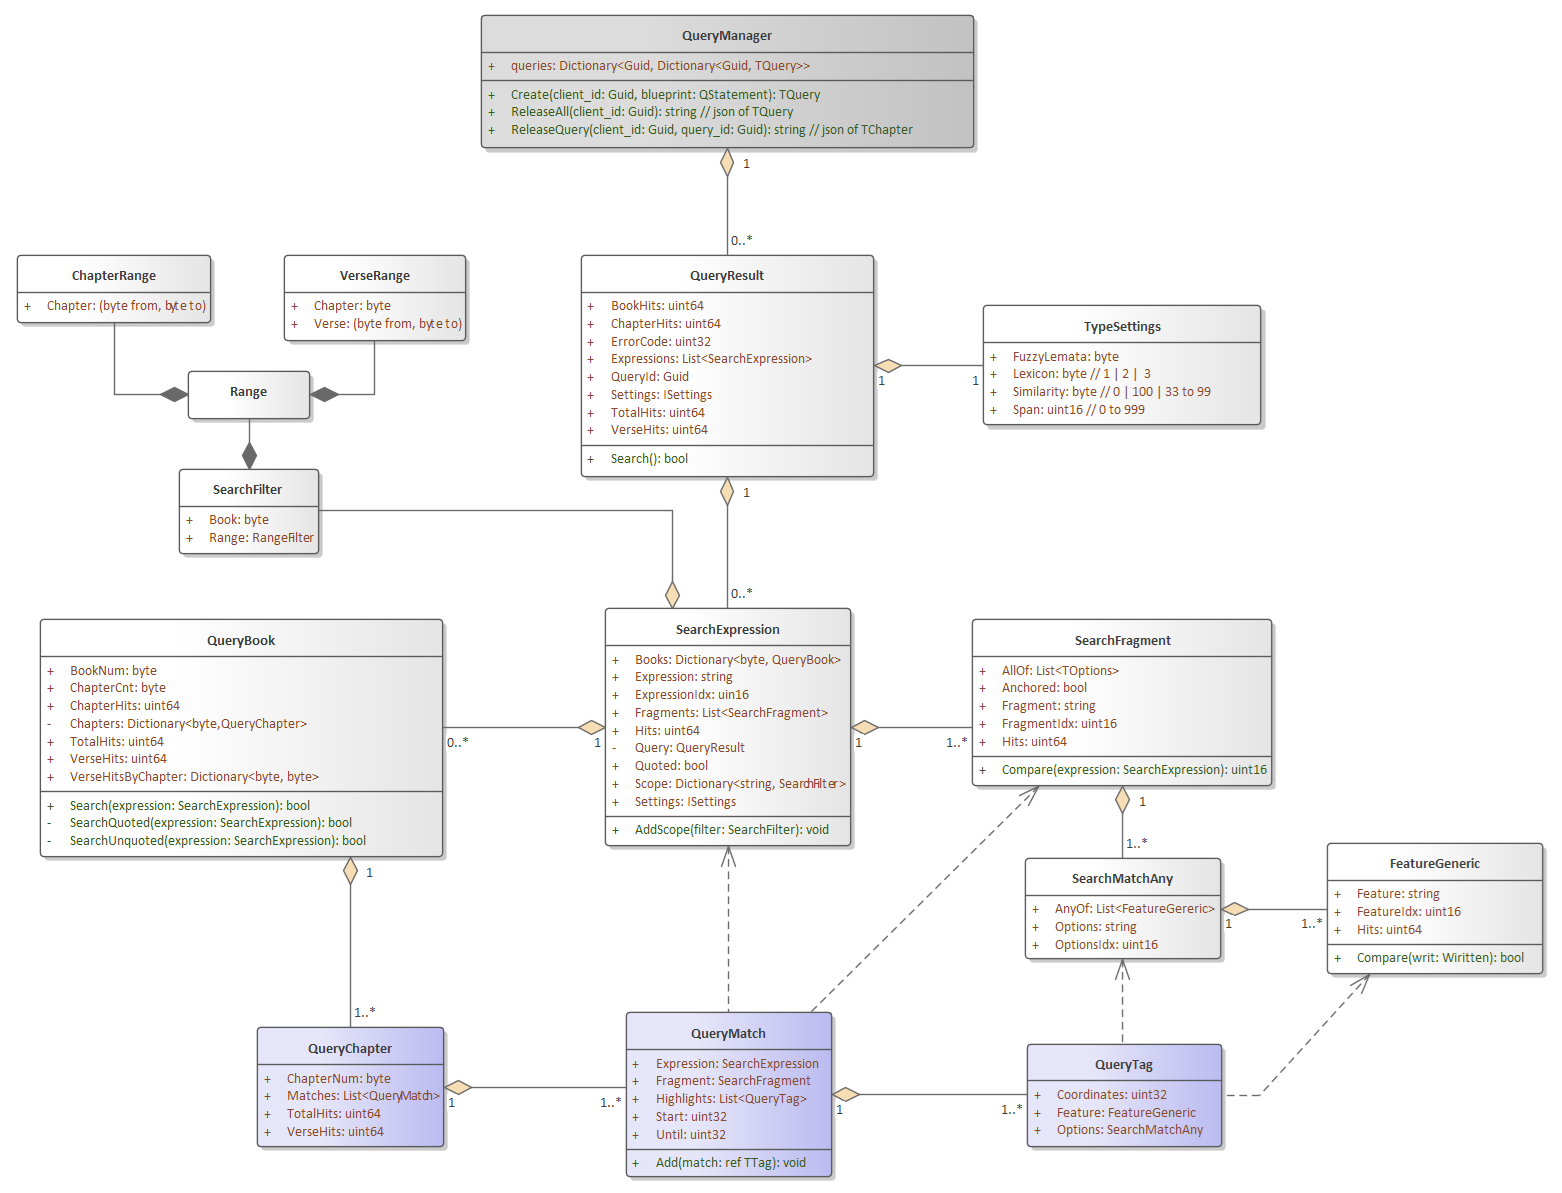
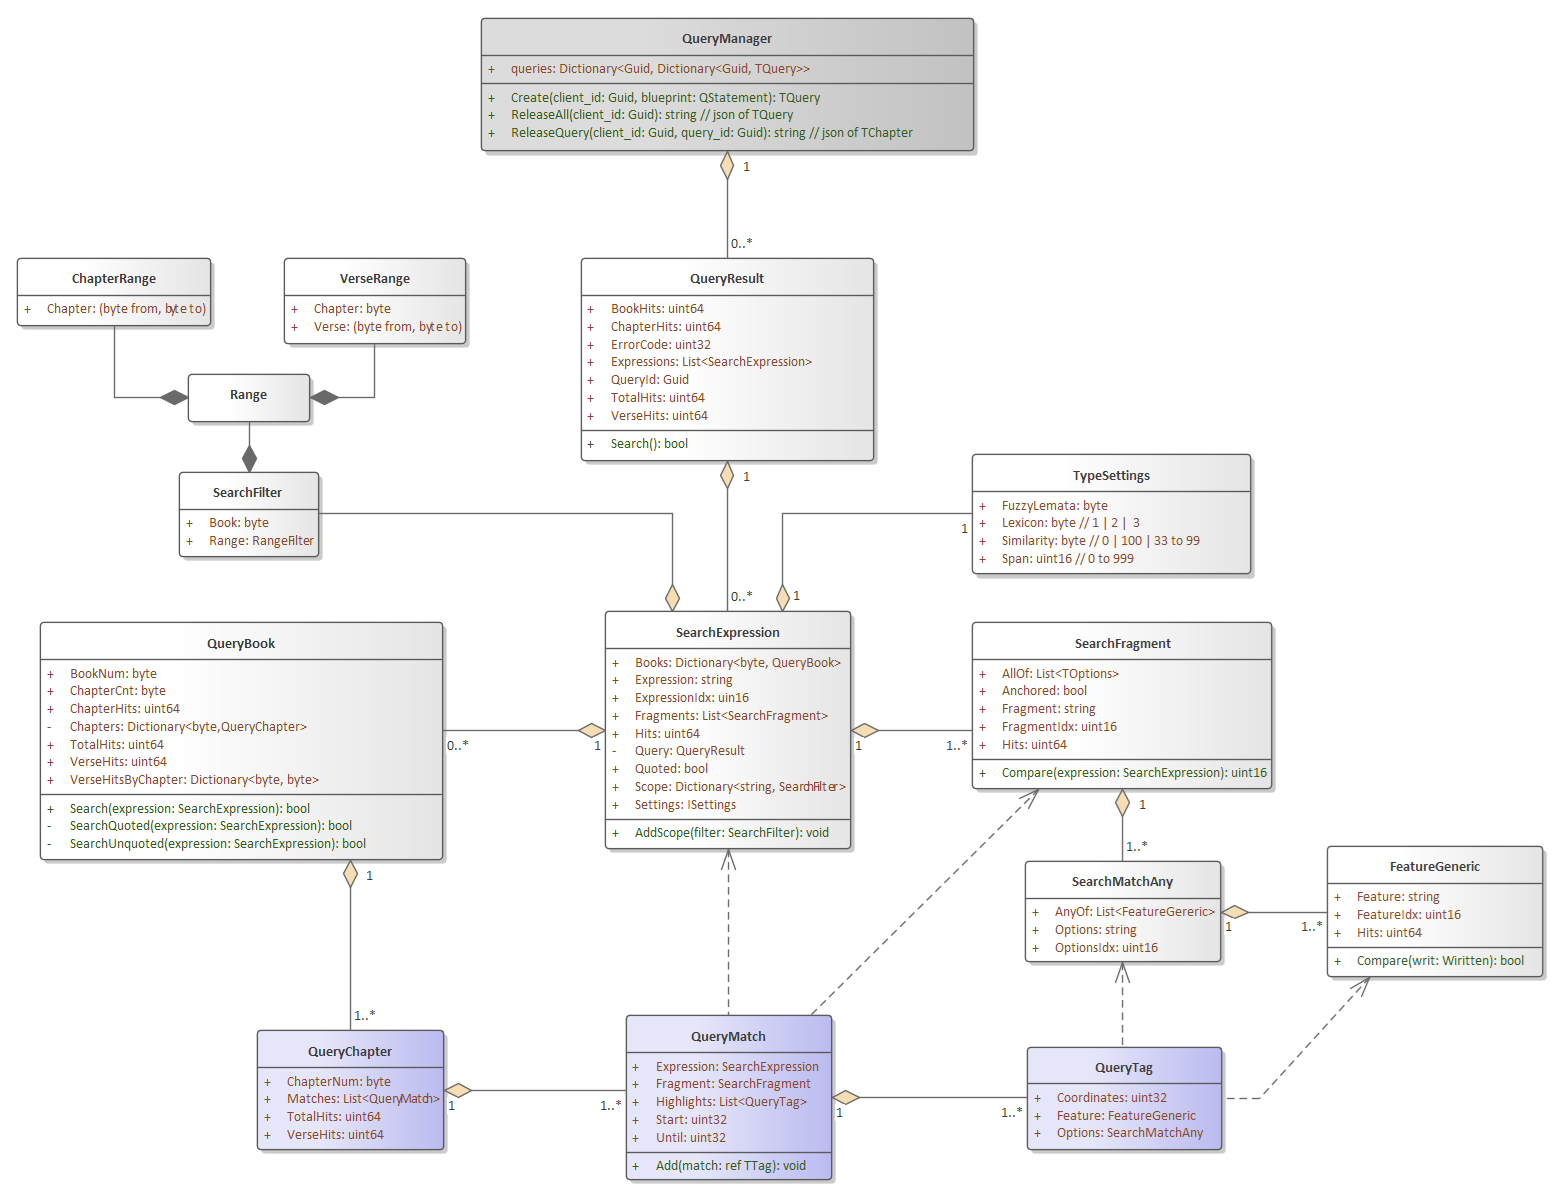
QueryResults class does not contain ISettings, expressions do; update diagram according to revision #4106

diff --git a/README.md b/README.md
@@ -77,7 +77,7 @@ Figure 3-3 more deeply reveals the two-phase nature for query requests. The quer
 
 ![](AVX-Results.png)
 
-**Figure 3-3**: The AVX result hierarchy implements two-phased fetching of query results [revision #3C27]
+**Figure 3-3**: The AVX result hierarchy implements two-phased fetching of query results [revision #4106]
 
 ### AVX-Lib Internals
 
